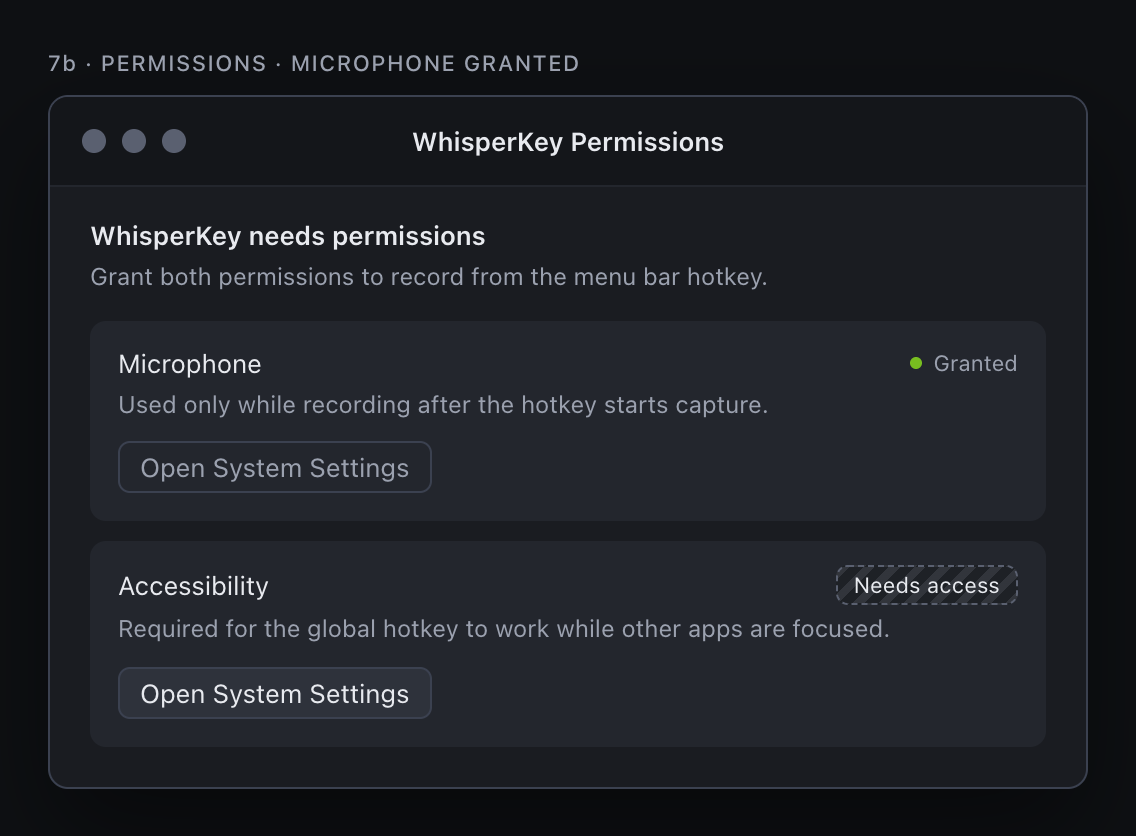
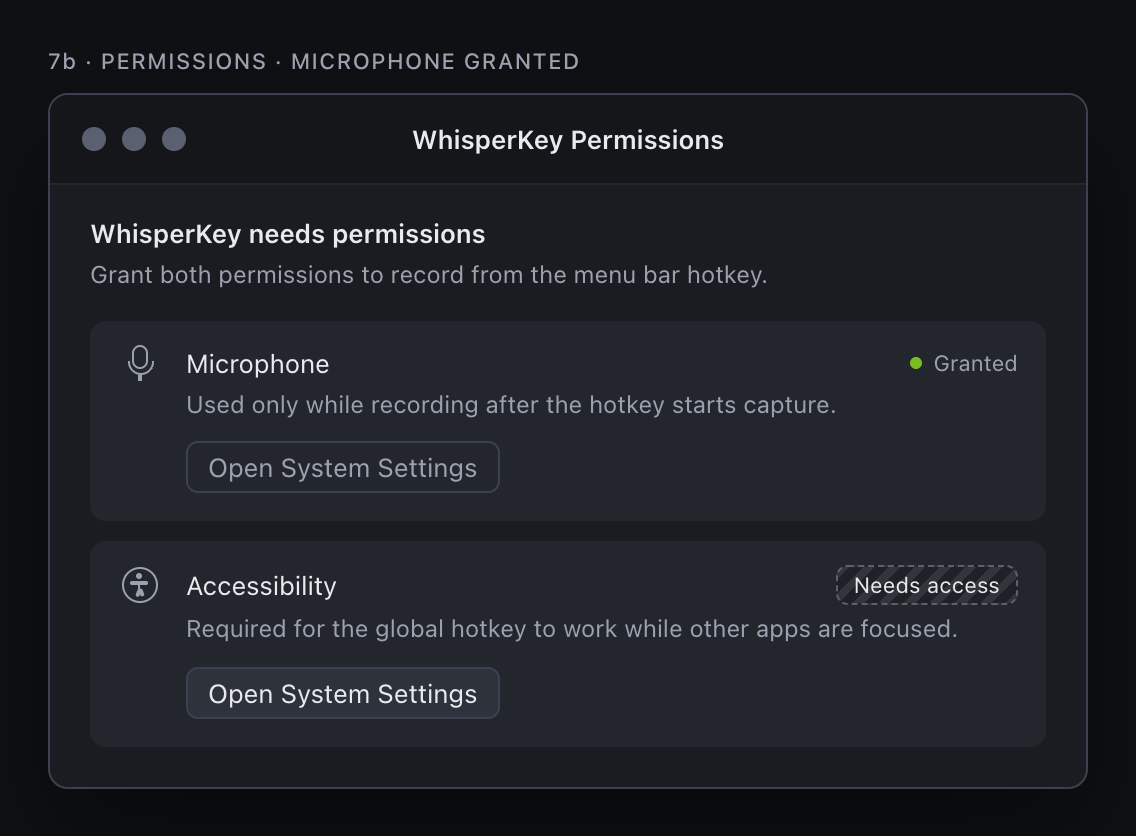
Draw the permission cards' leading glyphs in the design files
What/Why: #186 kept each permission card's leading glyph (microphone,
accessibility) against the mockup, on the owner's decision. The design agent
redrew screens 7a and 7b to match the app; this brings its export into the repo.
Only the two design files are taken from the export: its tokens.md, mockups
README and three popover/quick paste PNGs are older than the repo's and are left
out.

1. Dark and light master-design.dc.html: each card is a grid with a 22 glyph
   column and a 12 gap; the SF Symbol mic / accessibility at 18 in 07, centred
   on the title row; the screens' note says so.
2. Both token sheets add "+ Push button, pressed": 05 fill while held, as the
   app draws it on a card.
3. permissions-needs-access.png and permissions-granted.png re-exported with
   scripts/export-mockups.mjs; the mockups README records it.

Tests: none run - design documents only; the re-exported PNG was compared by
eye with the installed dev app's snapshot of the same state.

Risk: low - documentation only, no code.

diff --git a/docs/design/dark/master-design.dc.html b/docs/design/dark/master-design.dc.html
@@ -106,6 +106,7 @@
       <div style="display:flex;flex-direction:column;gap:5px;font-size:12px;color:#E8EAEF;line-height:1.4">
         <div><strong style="font-weight:600">Default button</strong> <span style="color:#9BA1AF">— red fill, 13/500 on-red label. Welcome only</span></div>
         <div><strong style="font-weight:600">Disabled control</strong> <span style="color:#9BA1AF">— no fill, 05 edge, 07 label</span></div>
+        <div><strong style="font-weight:600">+ Push button, pressed</strong> <span style="color:#9BA1AF">— 05 fill while held; at rest 04 fill, 05 edge on a 03 card</span></div>
         <div><strong style="font-weight:600">Checkbox</strong> <span style="color:#9BA1AF">— 14, radius 4. Off: 06 edge on 02. On and mixed: 08 fill, 01 mark</span></div>
         <div><strong style="font-weight:600">Action bar</strong> <span style="color:#9BA1AF">— 48 on 01, the panel footer at window scale</span></div>
         <div><strong style="font-weight:600">Row names</strong> <span style="color:#9BA1AF">— 34 is now “list row”, 40 “form row”</span></div>
@@ -876,21 +877,23 @@
           <div style="font-size:13px;font-weight:600;color:#E8EAEF">WhisperKey needs permissions</div>
           <div style="margin-top:4px;font-size:12px;line-height:1.45;color:#9BA1AF">Grant both permissions to record from the menu bar hotkey.</div>
           <div style="margin-top:14px;display:flex;flex-direction:column;gap:10px">
-            <div style="background:#23262D;border-radius:8px;padding:12px 14px 14px">
-              <div style="display:flex;align-items:center;gap:8px">
+            <div style="background:#23262D;border-radius:8px;padding:12px 14px 14px;display:grid;grid-template-columns:22px minmax(0,1fr);column-gap:12px">
+              <div style="grid-row:1;grid-column:1;align-self:center;justify-self:center;display:flex"><div title="SF Symbol mic, 18" style="width:13px;height:18px;display:flex;flex-direction:column;align-items:center"><div style="width:8px;height:12px;border-radius:4px;box-sizing:border-box;border:1.5px solid #9BA1AF;flex:none"></div><div style="width:13px;height:7px;margin-top:-4px;box-sizing:border-box;border:1.5px solid #9BA1AF;border-top:none;border-radius:0 0 6.5px 6.5px;flex:none"></div><div style="width:1.5px;height:3px;background:#9BA1AF;flex:none"></div></div></div>
+              <div style="grid-row:1;grid-column:2;display:flex;align-items:center;gap:8px">
                 <div style="flex:1;font-size:13px;color:#E8EAEF">Microphone</div>
                 <div style="font-size:11px;color:#E8EAEF;line-height:18px;padding:0 8px;border-radius:6px;border:1px dashed #5A6070;background-color:#1E2126;background-image:repeating-linear-gradient(135deg,rgba(138,144,158,0.18) 0 4px,rgba(138,144,158,0) 4px 9px)">Needs access</div>
               </div>
-              <div style="margin-top:3px;font-size:12px;line-height:1.45;color:#9BA1AF">Used only while recording after the hotkey starts capture.</div>
-              <div style="margin-top:10px;display:flex"><div style="font-size:13px;color:#E8EAEF;line-height:24px;padding:0 10px;border-radius:6px;background:#2E323B;border:1px solid #3B4150">Allow Microphone</div></div>
+              <div style="grid-row:2;grid-column:2;margin-top:3px;font-size:12px;line-height:1.45;color:#9BA1AF">Used only while recording after the hotkey starts capture.</div>
+              <div style="grid-row:3;grid-column:2;margin-top:10px;display:flex"><div style="font-size:13px;color:#E8EAEF;line-height:24px;padding:0 10px;border-radius:6px;background:#2E323B;border:1px solid #3B4150">Allow Microphone</div></div>
             </div>
-            <div style="background:#23262D;border-radius:8px;padding:12px 14px 14px">
-              <div style="display:flex;align-items:center;gap:8px">
+            <div style="background:#23262D;border-radius:8px;padding:12px 14px 14px;display:grid;grid-template-columns:22px minmax(0,1fr);column-gap:12px">
+              <div style="grid-row:1;grid-column:1;align-self:center;justify-self:center;display:flex"><div title="SF Symbol accessibility, 18" style="position:relative;width:18px;height:18px;border-radius:9px;box-sizing:border-box;border:1.5px solid #9BA1AF"><div style="position:absolute;left:6px;top:2px;width:3px;height:3px;border-radius:1.5px;background:#9BA1AF"></div><div style="position:absolute;left:3px;top:6px;width:9px;height:1.5px;border-radius:1px;background:#9BA1AF"></div><div style="position:absolute;left:6.75px;top:6px;width:1.5px;height:4px;background:#9BA1AF"></div><div style="position:absolute;left:6.75px;top:9.5px;width:1.5px;height:4px;border-radius:1px;background:#9BA1AF;transform-origin:50% 0;transform:rotate(22deg)"></div><div style="position:absolute;left:6.75px;top:9.5px;width:1.5px;height:4px;border-radius:1px;background:#9BA1AF;transform-origin:50% 0;transform:rotate(-22deg)"></div></div></div>
+              <div style="grid-row:1;grid-column:2;display:flex;align-items:center;gap:8px">
                 <div style="flex:1;font-size:13px;color:#E8EAEF">Accessibility</div>
                 <div style="font-size:11px;color:#E8EAEF;line-height:18px;padding:0 8px;border-radius:6px;border:1px dashed #5A6070;background-color:#1E2126;background-image:repeating-linear-gradient(135deg,rgba(138,144,158,0.18) 0 4px,rgba(138,144,158,0) 4px 9px)">Needs access</div>
               </div>
-              <div style="margin-top:3px;font-size:12px;line-height:1.45;color:#9BA1AF">Required for the global hotkey to work while other apps are focused.</div>
-              <div style="margin-top:10px;display:flex"><div style="font-size:13px;color:#E8EAEF;line-height:24px;padding:0 10px;border-radius:6px;background:#2E323B;border:1px solid #3B4150">Open System Settings</div></div>
+              <div style="grid-row:2;grid-column:2;margin-top:3px;font-size:12px;line-height:1.45;color:#9BA1AF">Required for the global hotkey to work while other apps are focused.</div>
+              <div style="grid-row:3;grid-column:2;margin-top:10px;display:flex"><div style="font-size:13px;color:#E8EAEF;line-height:24px;padding:0 10px;border-radius:6px;background:#2E323B;border:1px solid #3B4150">Open System Settings</div></div>
             </div>
           </div>
         </div>
@@ -908,21 +911,23 @@
           <div style="font-size:13px;font-weight:600;color:#E8EAEF">WhisperKey needs permissions</div>
           <div style="margin-top:4px;font-size:12px;line-height:1.45;color:#9BA1AF">Grant both permissions to record from the menu bar hotkey.</div>
           <div style="margin-top:14px;display:flex;flex-direction:column;gap:10px">
-            <div style="background:#23262D;border-radius:8px;padding:12px 14px 14px">
-              <div style="display:flex;align-items:center;gap:8px">
+            <div style="background:#23262D;border-radius:8px;padding:12px 14px 14px;display:grid;grid-template-columns:22px minmax(0,1fr);column-gap:12px">
+              <div style="grid-row:1;grid-column:1;align-self:center;justify-self:center;display:flex"><div title="SF Symbol mic, 18" style="width:13px;height:18px;display:flex;flex-direction:column;align-items:center"><div style="width:8px;height:12px;border-radius:4px;box-sizing:border-box;border:1.5px solid #9BA1AF;flex:none"></div><div style="width:13px;height:7px;margin-top:-4px;box-sizing:border-box;border:1.5px solid #9BA1AF;border-top:none;border-radius:0 0 6.5px 6.5px;flex:none"></div><div style="width:1.5px;height:3px;background:#9BA1AF;flex:none"></div></div></div>
+              <div style="grid-row:1;grid-column:2;display:flex;align-items:center;gap:8px">
                 <div style="flex:1;font-size:13px;color:#E8EAEF">Microphone</div>
                 <div style="display:flex;align-items:center;gap:6px;height:18px"><div style="width:6px;height:6px;border-radius:3px;background:#78BE20"></div><div style="font-size:11px;color:#9BA1AF">Granted</div></div>
               </div>
-              <div style="margin-top:3px;font-size:12px;line-height:1.45;color:#9BA1AF">Used only while recording after the hotkey starts capture.</div>
-              <div style="margin-top:10px;display:flex"><div style="font-size:13px;color:#9BA1AF;line-height:24px;padding:0 10px;border-radius:6px;background:transparent;border:1px solid #3B4150">Open System Settings</div></div>
+              <div style="grid-row:2;grid-column:2;margin-top:3px;font-size:12px;line-height:1.45;color:#9BA1AF">Used only while recording after the hotkey starts capture.</div>
+              <div style="grid-row:3;grid-column:2;margin-top:10px;display:flex"><div style="font-size:13px;color:#9BA1AF;line-height:24px;padding:0 10px;border-radius:6px;background:transparent;border:1px solid #3B4150">Open System Settings</div></div>
             </div>
-            <div style="background:#23262D;border-radius:8px;padding:12px 14px 14px">
-              <div style="display:flex;align-items:center;gap:8px">
+            <div style="background:#23262D;border-radius:8px;padding:12px 14px 14px;display:grid;grid-template-columns:22px minmax(0,1fr);column-gap:12px">
+              <div style="grid-row:1;grid-column:1;align-self:center;justify-self:center;display:flex"><div title="SF Symbol accessibility, 18" style="position:relative;width:18px;height:18px;border-radius:9px;box-sizing:border-box;border:1.5px solid #9BA1AF"><div style="position:absolute;left:6px;top:2px;width:3px;height:3px;border-radius:1.5px;background:#9BA1AF"></div><div style="position:absolute;left:3px;top:6px;width:9px;height:1.5px;border-radius:1px;background:#9BA1AF"></div><div style="position:absolute;left:6.75px;top:6px;width:1.5px;height:4px;background:#9BA1AF"></div><div style="position:absolute;left:6.75px;top:9.5px;width:1.5px;height:4px;border-radius:1px;background:#9BA1AF;transform-origin:50% 0;transform:rotate(22deg)"></div><div style="position:absolute;left:6.75px;top:9.5px;width:1.5px;height:4px;border-radius:1px;background:#9BA1AF;transform-origin:50% 0;transform:rotate(-22deg)"></div></div></div>
+              <div style="grid-row:1;grid-column:2;display:flex;align-items:center;gap:8px">
                 <div style="flex:1;font-size:13px;color:#E8EAEF">Accessibility</div>
                 <div style="font-size:11px;color:#E8EAEF;line-height:18px;padding:0 8px;border-radius:6px;border:1px dashed #5A6070;background-color:#1E2126;background-image:repeating-linear-gradient(135deg,rgba(138,144,158,0.18) 0 4px,rgba(138,144,158,0) 4px 9px)">Needs access</div>
               </div>
-              <div style="margin-top:3px;font-size:12px;line-height:1.45;color:#9BA1AF">Required for the global hotkey to work while other apps are focused.</div>
-              <div style="margin-top:10px;display:flex"><div style="font-size:13px;color:#E8EAEF;line-height:24px;padding:0 10px;border-radius:6px;background:#2E323B;border:1px solid #3B4150">Open System Settings</div></div>
+              <div style="grid-row:2;grid-column:2;margin-top:3px;font-size:12px;line-height:1.45;color:#9BA1AF">Required for the global hotkey to work while other apps are focused.</div>
+              <div style="grid-row:3;grid-column:2;margin-top:10px;display:flex"><div style="font-size:13px;color:#E8EAEF;line-height:24px;padding:0 10px;border-radius:6px;background:#2E323B;border:1px solid #3B4150">Open System Settings</div></div>
             </div>
           </div>
         </div>
@@ -930,7 +935,7 @@
     </div>
 
     <sc-if value="{{ showNotes }}" hint-placeholder-val="{{ true }}">
-      <div style="width:300px;padding-top:26px;font-size:12px;color:#9BA1AF;line-height:1.5;text-wrap:pretty"><strong style="font-weight:600;color:#E8EAEF">Borrows</strong> Settings’ chrome and the API key row’s two states: the rejected-key badge (hatch + dash) for Needs access, the Saved dot and grey label for Granted. The button stays in place, disabled, so the card doesn’t jump. Before macOS has asked for the microphone its button reads Allow Microphone; after, Open System Settings.</div>
+      <div style="width:300px;padding-top:26px;font-size:12px;color:#9BA1AF;line-height:1.5;text-wrap:pretty"><strong style="font-weight:600;color:#E8EAEF">Borrows</strong> Settings’ chrome and the API key row’s two states: the rejected-key badge (hatch + dash) for Needs access, the Saved dot and grey label for Granted. The button stays in place, disabled, so the card doesn’t jump. Each card leads with its SF glyph, mic or accessibility, 18 in 07 in a 22 column 12 from the text, centred on the title row; it stays 07 when granted. Before macOS has asked for the microphone its button reads Allow Microphone; after, Open System Settings.</div>
     </sc-if>
   </div>
 

diff --git a/docs/design/light/master-design.dc.html b/docs/design/light/master-design.dc.html
@@ -106,6 +106,7 @@
       <div style="display:flex;flex-direction:column;gap:5px;font-size:12px;color:#16181D;line-height:1.4">
         <div><strong style="font-weight:600">Default button</strong> <span style="color:#515763">— red fill, 13/500 on-red label. Welcome only</span></div>
         <div><strong style="font-weight:600">Disabled control</strong> <span style="color:#515763">— no fill, 05 edge, 07 label</span></div>
+        <div><strong style="font-weight:600">+ Push button, pressed</strong> <span style="color:#515763">— 05 fill while held; at rest 04 fill, 05 edge on a 03 card</span></div>
         <div><strong style="font-weight:600">Checkbox</strong> <span style="color:#515763">— 14, radius 4. Off: 06 edge on 02. On and mixed: 08 fill, 01 mark</span></div>
         <div><strong style="font-weight:600">Action bar</strong> <span style="color:#515763">— 48 on 01, the panel footer at window scale</span></div>
         <div><strong style="font-weight:600">Row names</strong> <span style="color:#515763">— 34 is now “list row”, 40 “form row”</span></div>
@@ -973,21 +974,23 @@
           <div style="font-size:13px;font-weight:600;color:#16181D">WhisperKey needs permissions</div>
           <div style="margin-top:4px;font-size:12px;line-height:1.45;color:#515763">Grant both permissions to record from the menu bar hotkey.</div>
           <div style="margin-top:14px;display:flex;flex-direction:column;gap:10px">
-            <div style="background:#E0E2E6;border-radius:8px;padding:12px 14px 14px">
-              <div style="display:flex;align-items:center;gap:8px">
+            <div style="background:#E0E2E6;border-radius:8px;padding:12px 14px 14px;display:grid;grid-template-columns:22px minmax(0,1fr);column-gap:12px">
+              <div style="grid-row:1;grid-column:1;align-self:center;justify-self:center;display:flex"><div title="SF Symbol mic, 18" style="width:13px;height:18px;display:flex;flex-direction:column;align-items:center"><div style="width:8px;height:12px;border-radius:4px;box-sizing:border-box;border:1.5px solid #515763;flex:none"></div><div style="width:13px;height:7px;margin-top:-4px;box-sizing:border-box;border:1.5px solid #515763;border-top:none;border-radius:0 0 6.5px 6.5px;flex:none"></div><div style="width:1.5px;height:3px;background:#515763;flex:none"></div></div></div>
+              <div style="grid-row:1;grid-column:2;display:flex;align-items:center;gap:8px">
                 <div style="flex:1;font-size:13px;color:#16181D">Microphone</div>
                 <div style="font-size:11px;color:#16181D;line-height:18px;padding:0 8px;border-radius:6px;border:1px dashed #8C929F;background-color:#E8E9ED;background-image:repeating-linear-gradient(135deg,rgba(102,108,120,0.18) 0 4px,rgba(102,108,120,0) 4px 9px)">Needs access</div>
               </div>
-              <div style="margin-top:3px;font-size:12px;line-height:1.45;color:#515763">Used only while recording after the hotkey starts capture.</div>
-              <div style="margin-top:10px;display:flex"><div style="font-size:13px;color:#16181D;line-height:24px;padding:0 10px;border-radius:6px;background:#D0D3D8;border:1px solid #B8BCC4">Open System Settings</div></div>
+              <div style="grid-row:2;grid-column:2;margin-top:3px;font-size:12px;line-height:1.45;color:#515763">Used only while recording after the hotkey starts capture.</div>
+              <div style="grid-row:3;grid-column:2;margin-top:10px;display:flex"><div style="font-size:13px;color:#16181D;line-height:24px;padding:0 10px;border-radius:6px;background:#D0D3D8;border:1px solid #B8BCC4">Open System Settings</div></div>
             </div>
-            <div style="background:#E0E2E6;border-radius:8px;padding:12px 14px 14px">
-              <div style="display:flex;align-items:center;gap:8px">
+            <div style="background:#E0E2E6;border-radius:8px;padding:12px 14px 14px;display:grid;grid-template-columns:22px minmax(0,1fr);column-gap:12px">
+              <div style="grid-row:1;grid-column:1;align-self:center;justify-self:center;display:flex"><div title="SF Symbol accessibility, 18" style="position:relative;width:18px;height:18px;border-radius:9px;box-sizing:border-box;border:1.5px solid #515763"><div style="position:absolute;left:6px;top:2px;width:3px;height:3px;border-radius:1.5px;background:#515763"></div><div style="position:absolute;left:3px;top:6px;width:9px;height:1.5px;border-radius:1px;background:#515763"></div><div style="position:absolute;left:6.75px;top:6px;width:1.5px;height:4px;background:#515763"></div><div style="position:absolute;left:6.75px;top:9.5px;width:1.5px;height:4px;border-radius:1px;background:#515763;transform-origin:50% 0;transform:rotate(22deg)"></div><div style="position:absolute;left:6.75px;top:9.5px;width:1.5px;height:4px;border-radius:1px;background:#515763;transform-origin:50% 0;transform:rotate(-22deg)"></div></div></div>
+              <div style="grid-row:1;grid-column:2;display:flex;align-items:center;gap:8px">
                 <div style="flex:1;font-size:13px;color:#16181D">Accessibility</div>
                 <div style="font-size:11px;color:#16181D;line-height:18px;padding:0 8px;border-radius:6px;border:1px dashed #8C929F;background-color:#E8E9ED;background-image:repeating-linear-gradient(135deg,rgba(102,108,120,0.18) 0 4px,rgba(102,108,120,0) 4px 9px)">Needs access</div>
               </div>
-              <div style="margin-top:3px;font-size:12px;line-height:1.45;color:#515763">Required for the global hotkey to work while other apps are focused.</div>
-              <div style="margin-top:10px;display:flex"><div style="font-size:13px;color:#16181D;line-height:24px;padding:0 10px;border-radius:6px;background:#D0D3D8;border:1px solid #B8BCC4">Open System Settings</div></div>
+              <div style="grid-row:2;grid-column:2;margin-top:3px;font-size:12px;line-height:1.45;color:#515763">Required for the global hotkey to work while other apps are focused.</div>
+              <div style="grid-row:3;grid-column:2;margin-top:10px;display:flex"><div style="font-size:13px;color:#16181D;line-height:24px;padding:0 10px;border-radius:6px;background:#D0D3D8;border:1px solid #B8BCC4">Open System Settings</div></div>
             </div>
           </div>
         </div>
@@ -1005,21 +1008,23 @@
           <div style="font-size:13px;font-weight:600;color:#16181D">WhisperKey needs permissions</div>
           <div style="margin-top:4px;font-size:12px;line-height:1.45;color:#515763">Grant both permissions to record from the menu bar hotkey.</div>
           <div style="margin-top:14px;display:flex;flex-direction:column;gap:10px">
-            <div style="background:#E0E2E6;border-radius:8px;padding:12px 14px 14px">
-              <div style="display:flex;align-items:center;gap:8px">
+            <div style="background:#E0E2E6;border-radius:8px;padding:12px 14px 14px;display:grid;grid-template-columns:22px minmax(0,1fr);column-gap:12px">
+              <div style="grid-row:1;grid-column:1;align-self:center;justify-self:center;display:flex"><div title="SF Symbol mic, 18" style="width:13px;height:18px;display:flex;flex-direction:column;align-items:center"><div style="width:8px;height:12px;border-radius:4px;box-sizing:border-box;border:1.5px solid #515763;flex:none"></div><div style="width:13px;height:7px;margin-top:-4px;box-sizing:border-box;border:1.5px solid #515763;border-top:none;border-radius:0 0 6.5px 6.5px;flex:none"></div><div style="width:1.5px;height:3px;background:#515763;flex:none"></div></div></div>
+              <div style="grid-row:1;grid-column:2;display:flex;align-items:center;gap:8px">
                 <div style="flex:1;font-size:13px;color:#16181D">Microphone</div>
                 <div style="display:flex;align-items:center;gap:6px;height:18px"><div style="width:6px;height:6px;border-radius:3px;background:#4F8E00"></div><div style="font-size:11px;color:#515763">Granted</div></div>
               </div>
-              <div style="margin-top:3px;font-size:12px;line-height:1.45;color:#515763">Used only while recording after the hotkey starts capture.</div>
-              <div style="margin-top:10px;display:flex"><div style="font-size:13px;color:#515763;line-height:24px;padding:0 10px;border-radius:6px;background:transparent;border:1px solid #B8BCC4">Open System Settings</div></div>
+              <div style="grid-row:2;grid-column:2;margin-top:3px;font-size:12px;line-height:1.45;color:#515763">Used only while recording after the hotkey starts capture.</div>
+              <div style="grid-row:3;grid-column:2;margin-top:10px;display:flex"><div style="font-size:13px;color:#515763;line-height:24px;padding:0 10px;border-radius:6px;background:transparent;border:1px solid #B8BCC4">Open System Settings</div></div>
             </div>
-            <div style="background:#E0E2E6;border-radius:8px;padding:12px 14px 14px">
-              <div style="display:flex;align-items:center;gap:8px">
+            <div style="background:#E0E2E6;border-radius:8px;padding:12px 14px 14px;display:grid;grid-template-columns:22px minmax(0,1fr);column-gap:12px">
+              <div style="grid-row:1;grid-column:1;align-self:center;justify-self:center;display:flex"><div title="SF Symbol accessibility, 18" style="position:relative;width:18px;height:18px;border-radius:9px;box-sizing:border-box;border:1.5px solid #515763"><div style="position:absolute;left:6px;top:2px;width:3px;height:3px;border-radius:1.5px;background:#515763"></div><div style="position:absolute;left:3px;top:6px;width:9px;height:1.5px;border-radius:1px;background:#515763"></div><div style="position:absolute;left:6.75px;top:6px;width:1.5px;height:4px;background:#515763"></div><div style="position:absolute;left:6.75px;top:9.5px;width:1.5px;height:4px;border-radius:1px;background:#515763;transform-origin:50% 0;transform:rotate(22deg)"></div><div style="position:absolute;left:6.75px;top:9.5px;width:1.5px;height:4px;border-radius:1px;background:#515763;transform-origin:50% 0;transform:rotate(-22deg)"></div></div></div>
+              <div style="grid-row:1;grid-column:2;display:flex;align-items:center;gap:8px">
                 <div style="flex:1;font-size:13px;color:#16181D">Accessibility</div>
                 <div style="font-size:11px;color:#16181D;line-height:18px;padding:0 8px;border-radius:6px;border:1px dashed #8C929F;background-color:#E8E9ED;background-image:repeating-linear-gradient(135deg,rgba(102,108,120,0.18) 0 4px,rgba(102,108,120,0) 4px 9px)">Needs access</div>
               </div>
-              <div style="margin-top:3px;font-size:12px;line-height:1.45;color:#515763">Required for the global hotkey to work while other apps are focused.</div>
-              <div style="margin-top:10px;display:flex"><div style="font-size:13px;color:#16181D;line-height:24px;padding:0 10px;border-radius:6px;background:#D0D3D8;border:1px solid #B8BCC4">Open System Settings</div></div>
+              <div style="grid-row:2;grid-column:2;margin-top:3px;font-size:12px;line-height:1.45;color:#515763">Required for the global hotkey to work while other apps are focused.</div>
+              <div style="grid-row:3;grid-column:2;margin-top:10px;display:flex"><div style="font-size:13px;color:#16181D;line-height:24px;padding:0 10px;border-radius:6px;background:#D0D3D8;border:1px solid #B8BCC4">Open System Settings</div></div>
             </div>
           </div>
         </div>
@@ -1027,7 +1032,7 @@
     </div>
 
     <sc-if value="{{ showNotes }}" hint-placeholder-val="{{ true }}">
-      <div style="width:300px;padding-top:26px;font-size:12px;color:#515763;line-height:1.5;text-wrap:pretty"><strong style="font-weight:600;color:#16181D">Borrows</strong> Settings’ chrome and the API key row’s two states: the rejected-key badge (hatch + dash) for Needs access, the Saved dot and grey label for Granted. The button stays in place, disabled, so the card doesn’t jump.</div>
+      <div style="width:300px;padding-top:26px;font-size:12px;color:#515763;line-height:1.5;text-wrap:pretty"><strong style="font-weight:600;color:#16181D">Borrows</strong> Settings’ chrome and the API key row’s two states: the rejected-key badge (hatch + dash) for Needs access, the Saved dot and grey label for Granted. The button stays in place, disabled, so the card doesn’t jump. Each card leads with its SF glyph, mic or accessibility, 18 in 07 in a 22 column 12 from the text, centred on the title row; it stays 07 when granted.</div>
     </sc-if>
   </div>
 

diff --git a/docs/design/mockups/README.md b/docs/design/mockups/README.md
@@ -5,3 +5,4 @@ The four `settings-*.png` and `settings-theme-row.png` (the "Theme row states" s
 `full-history-empty.png` (the "Full history empty" section) was added on 2026-10-13: the Full history window with no entries.
 Every PNG was re-exported on 2026-10-15, when the design was revised to govern the look only (#173), and `reset-usage-confirmation.png` (the "Reset usage confirmation" section inside Alerts) was added.
 To regenerate: [`scripts/export-mockups.mjs`](../../../scripts/export-mockups.mjs) opens the design file in headless Chrome and takes an element screenshot of each named `[data-screen-label]` section at device scale factor 2, with 24 pt of page background around it for the shadow and the rest of the board hidden.
+`permissions-needs-access.png` and `permissions-granted.png` were re-exported on 2026-10-16, when each permission card took back its leading glyph (#186).
